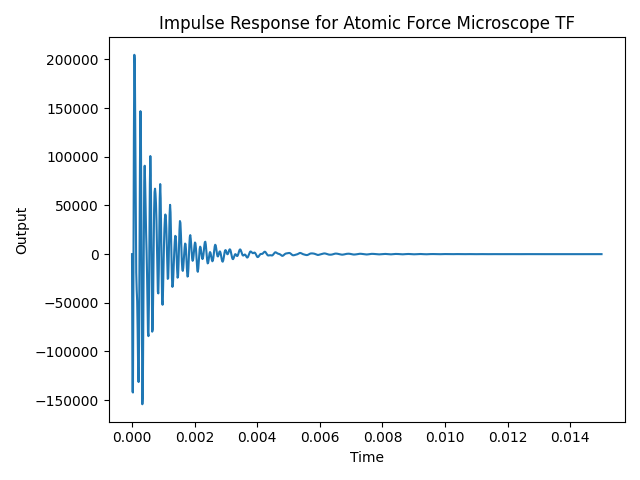
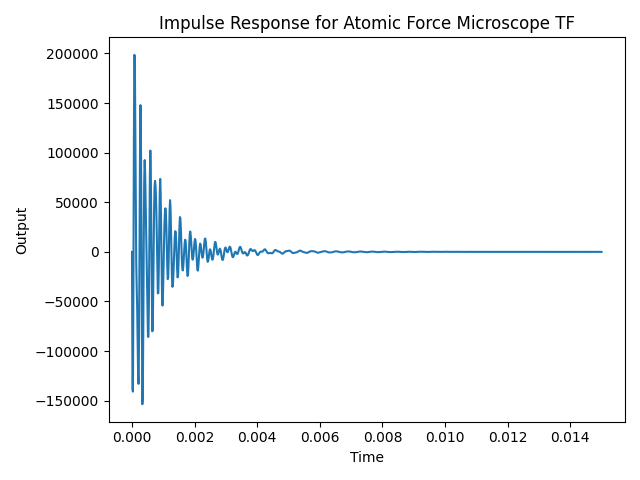
AYYY IT WORKS

diff --git a/4_era_implementation/era.py b/4_era_implementation/era.py
@@ -27,6 +27,8 @@ G_den_4 = s**2 + 2 * zeta[4] * omega[4] * s + omega[4]**2
 delay = ct.pade(tau, 3)
 G = G_num_1 * G_num_2 * G_num_3 * ct.tf(delay[0], delay[1]) / (G_den_1 * G_den_2 * G_den_3 * G_den_4)
 
+# G = 1 / (s + 1)
+
 T = np.linspace(0, 0.015, 1000)
 t, y = ct.impulse_response(G, T)
 
@@ -61,7 +63,7 @@ except FileNotFoundError:
     np.save("svd_store/svdeez_vh.npy", Vh)
     print("SVD components stored for future use.")
 
-r = np.shape(U)[0]
+r = 9 # np.shape(U)[0]
 
 Ur = U[:, :r]
 SVr = np.diag(S[:r])
@@ -71,8 +73,16 @@ A = sc.linalg.fractional_matrix_power(SVr, -0.5) @ Ur.T @ marie_schrader @ Vr @ 
 B = (sc.linalg.fractional_matrix_power(SVr, 0.5) @ (Vr.T)[:, 0]).reshape(-1, 1)
 C = Ur[0, :] @ sc.linalg.fractional_matrix_power(SVr, 0.5)
 
+plt.stem(np.arange(r), np.square(S[:r]), "o")
+plt.xlabel("Index")
+plt.ylabel("Squared Hankel Singular Values")
+plt.suptitle("Significant Hankel SV's (Squared)", fontsize=12)
+plt.semilogy()
+plt.savefig("era_figs/hankel_squared_svs.png")
+plt.show()
+
 G_new = ct.ss(A, B, C, 0, T[1])
-ct.bode_plot([G, G_new], wrap_phase = True)
+ct.bode_plot([G, G_new * T[1]], wrap_phase = True)
 plt.legend(['Original TF', 'ERA Reconstruction'])
 plt.suptitle('Frequency Response Comparison')
 plt.tight_layout()
